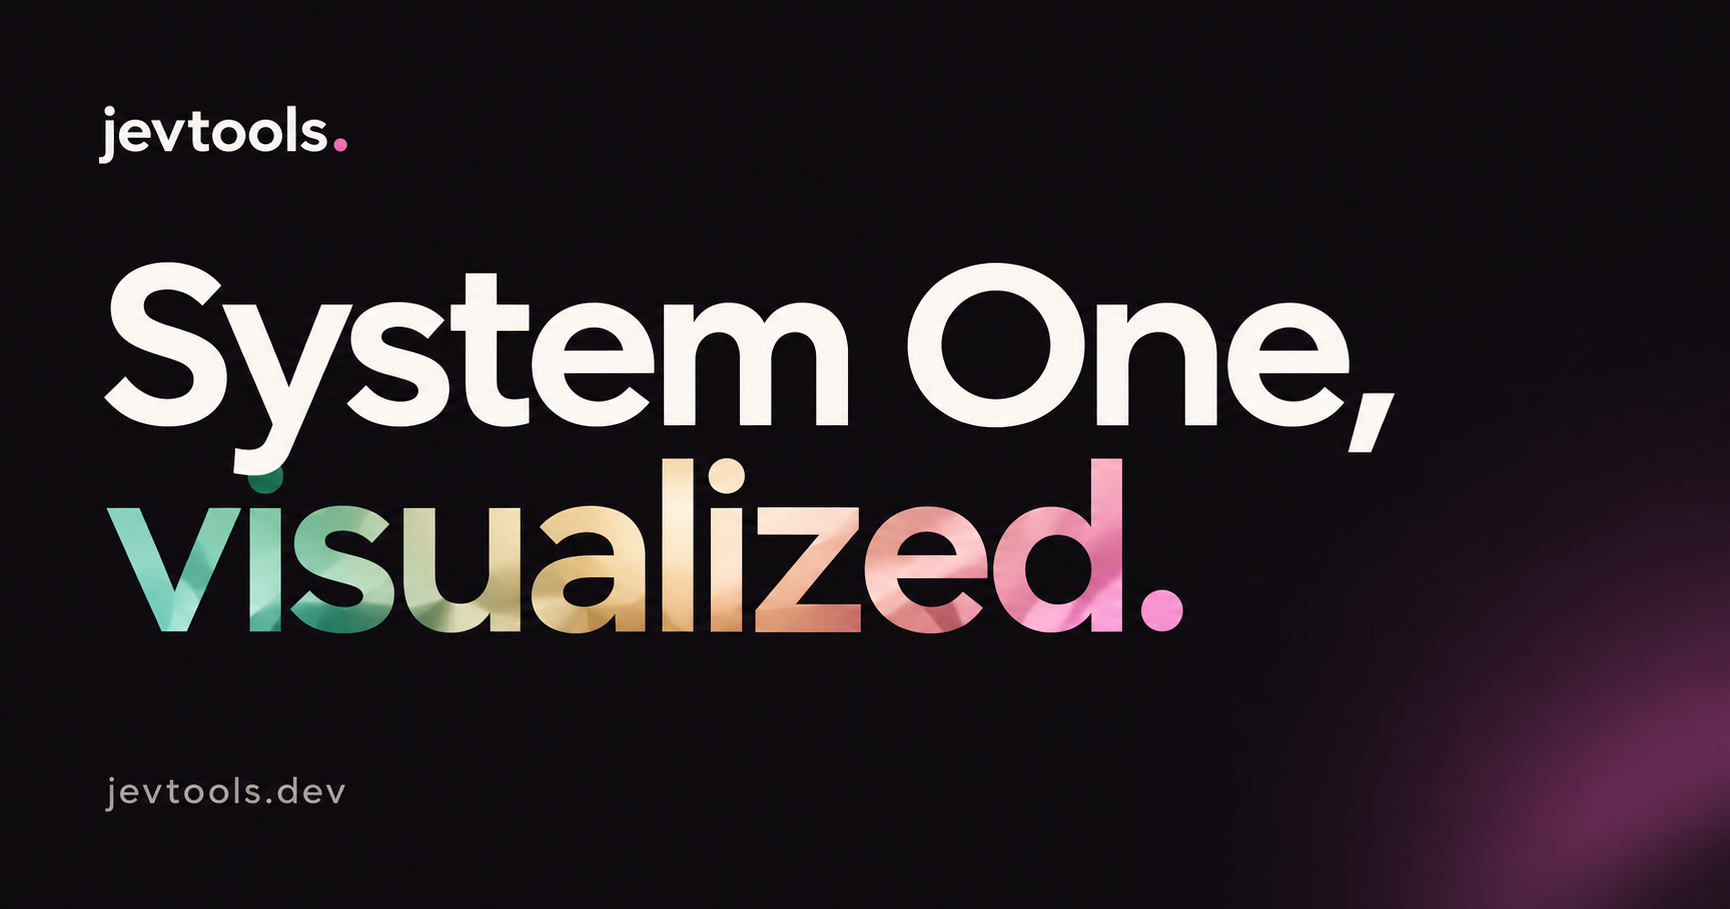
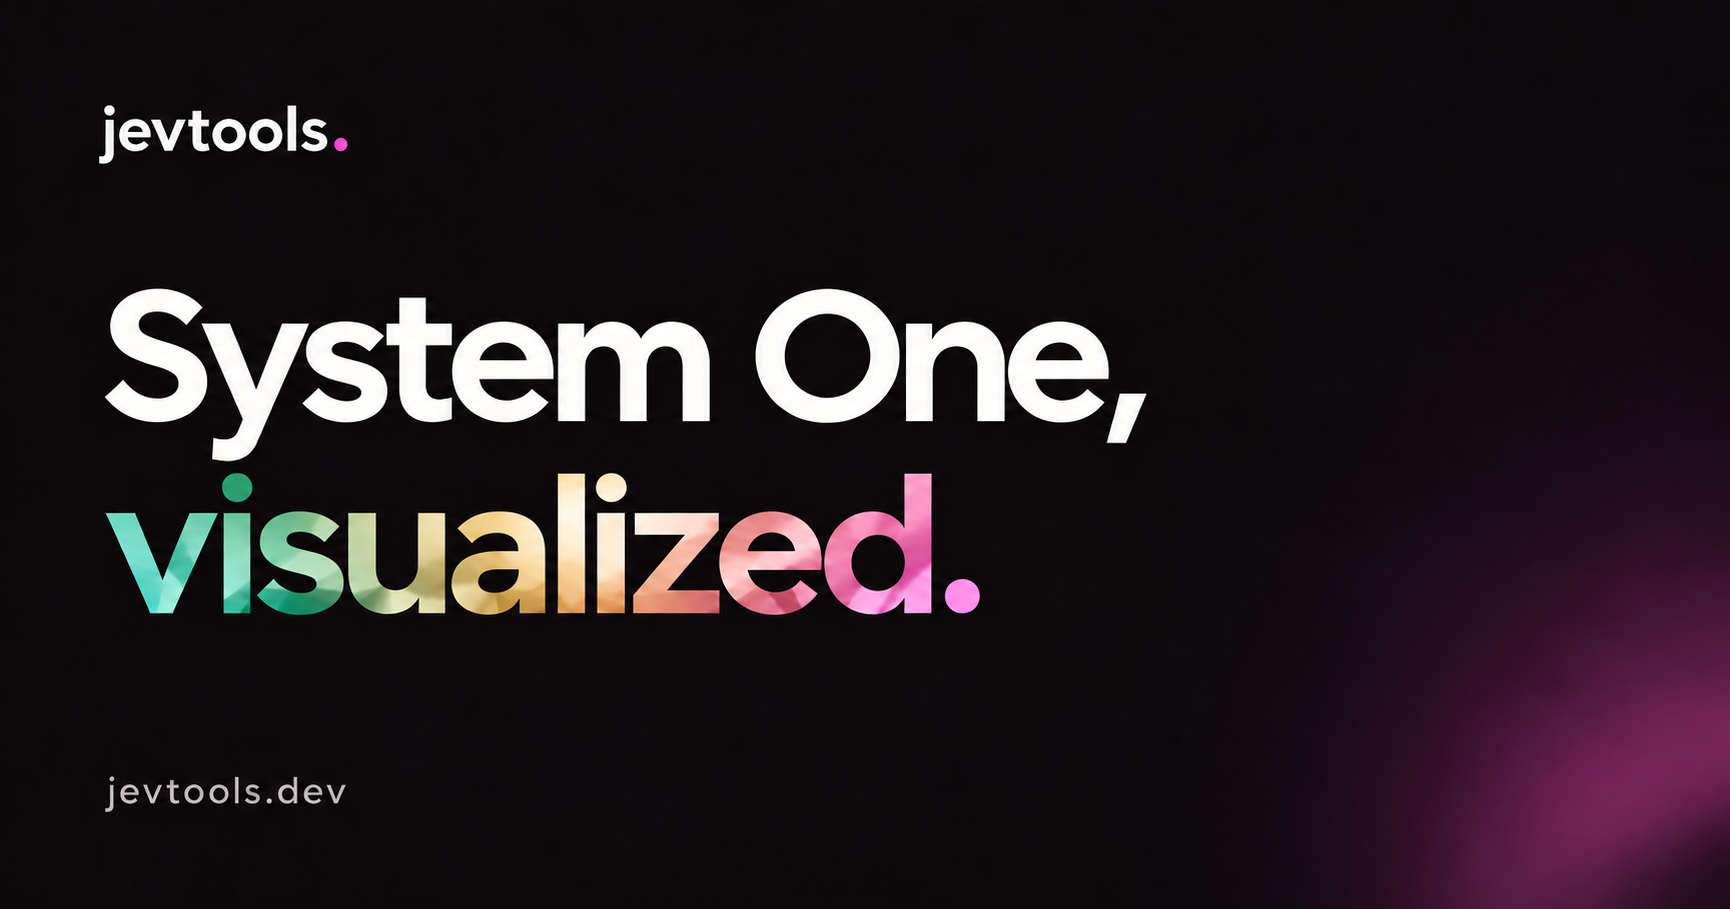
fix(web): refine landing sharing image typography

Changed region(s): [[0.0624, 0.2772, 0.8116, 0.7085], [0.0624, 0.8625, 0.1873, 0.8933], [0.0624, 0.1232, 0.1873, 0.154]]

diff --git a/CHANGELOG.md b/CHANGELOG.md
@@ -27,7 +27,7 @@ Dates below use UTC and were checked against npm's publication history. The hist
 
 - **Landing navigation.** Remove the "Explore the flows" header link and keep Docs visible on mobile. Package APIs are unchanged. ([#78](https://github.com/diegoag64/jev-devtools/pull/78))
 
-- **Website sharing previews.** Add the selected prismatic landing image and documentation image to Open Graph and Twitter metadata, requesting large image cards on both sites. Docs keep page-specific titles and descriptions with one shared image. Package APIs are unchanged; the previews become available after each site's manual publication. ([#78](https://github.com/diegoag64/jev-devtools/pull/78))
+- **Website sharing previews.** Add the selected prismatic landing image and documentation image to Open Graph and Twitter metadata, requesting large image cards on both sites. The landing artwork uses a smaller headline with clear separation between the “y” and “i”. Docs keep page-specific titles and descriptions with one shared image. Package APIs are unchanged; the previews become available after each site's manual publication. ([#78](https://github.com/diegoag64/jev-devtools/pull/78))
 
 #### Documentation
 
